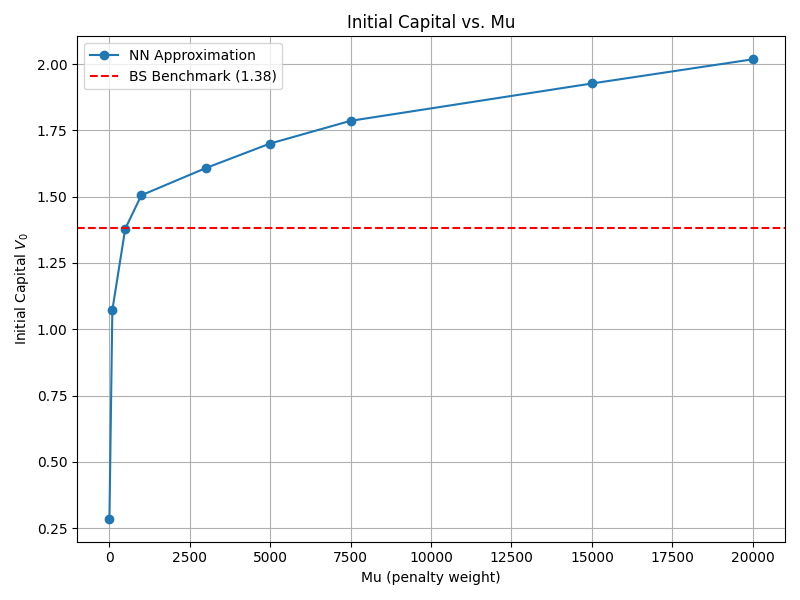
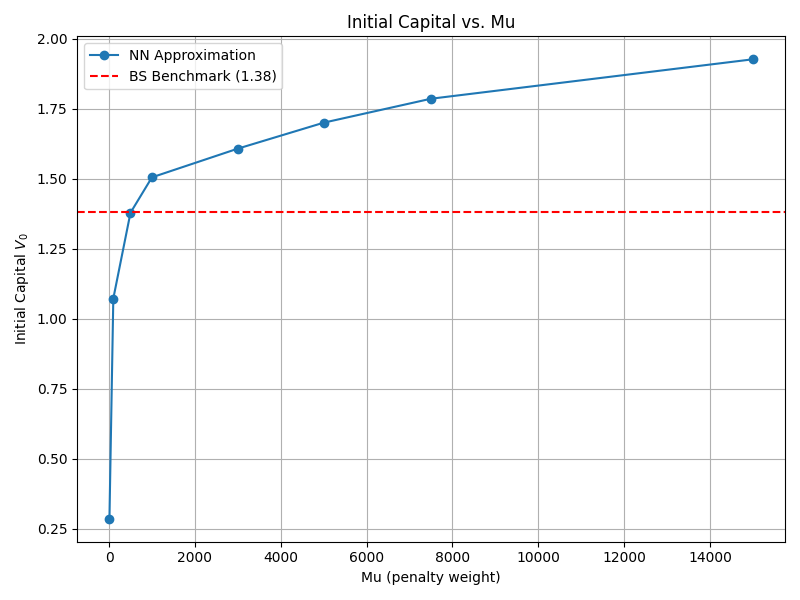
Update plotting

diff --git a/evaluation/bs_eval_across_mu.py b/evaluation/bs_eval_across_mu.py
@@ -15,7 +15,7 @@ from models.metrics import prob_hedge, predicted_price
 
 # Parameters
 # 100, 500, 1000, 3000, 5000, 7500,
-mu_values = [10, 100, 500, 1000, 3000, 5000, 7500, 15000, 20000]
+mu_values = [10, 100, 500, 1000, 3000, 5000, 7500, 15000]
 model_dir = "models/BS"
 plot_dir = "plots/BS"
 os.makedirs(plot_dir, exist_ok=True)

diff --git a/training/train_across_mu_bs.py b/training/train_across_mu_bs.py
@@ -18,7 +18,7 @@ epochs = 70
 batch_size = 256*2
 #
 # List of mu values to train over
-mu_values = [10, 100, 500, 1000, 3000, 5000, 7500, 15000, 20000]
+mu_values = [10, 100, 500, 1000, 3000, 5000, 7500, 15000]
 
 # Prepare data
 print("Generating data...")
